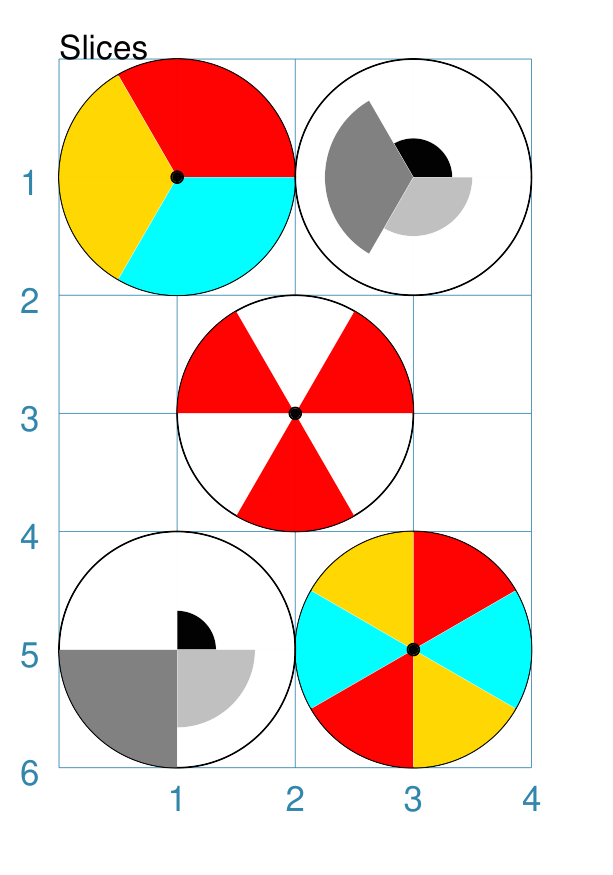
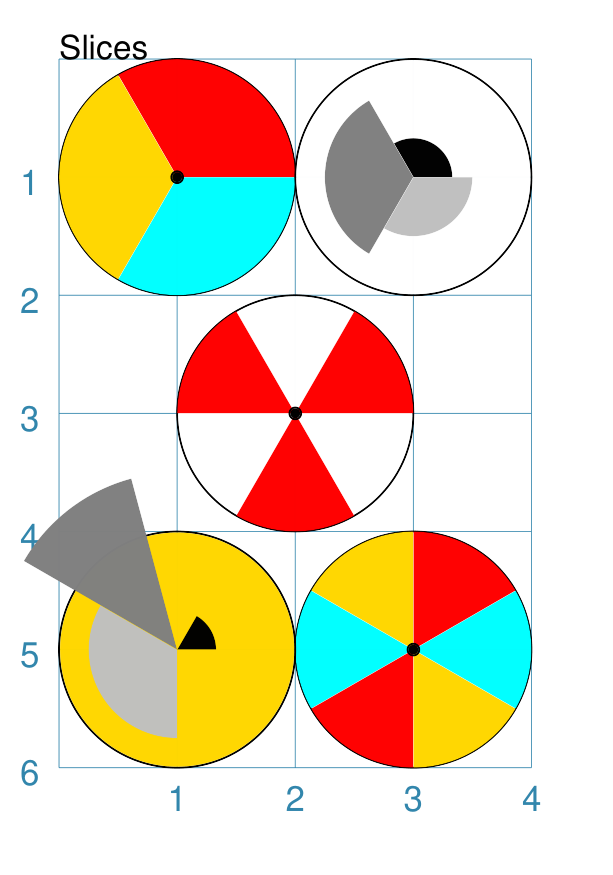
Updated slices property for Circle to allow angles.

Changed region(s): [[0.031, 0.5246, 0.4959, 0.8949]]

diff --git a/protograf/shapes.py b/protograf/shapes.py
@@ -771,18 +771,36 @@ class CircleShape(BaseShape):
         # ---- validate slices fractions values
         for _frac in _slices_frac:
             _frac = _frac or 1
-            if not isinstance(_frac, (float, int)) or _frac > 1:
-                feedback("The slices_fractions must be a list of fractions.", True)
+            if not isinstance(_frac, (float, int)):
+                feedback("The slices_fractions must be a list of values.", True)
         if len(_slices_frac) != len(_slices):
             feedback(
                 "The number of slices_fractions must match number of colors.", True
             )
+        # ---- get slices_angles list from string
+        if isinstance(self.slices_angles, str):
+            _slices_ang = tools.split(self.slices_angles.strip())
+        else:  # degrees "size" of slice
+            _slices_ang = self.slices_angles or [360.0 / len(_slices) ] * len(_slices)
+        # ---- validate slices anfle values
+        for _frac in _slices_ang:
+            _frac = _frac or 0
+            if not isinstance(_frac, (float, int)):
+                feedback("The slices_angles must be a list of values.", True)
+        if len(_slices_ang) != len(_slices):
+            feedback(
+                "The number of slices_angles must match number of colors.", True
+            )
+        if sum(_slices_ang) > 360.0:
+            feedback(
+                "The sum of the slices_angles cannot exceed 360 (degrees).", True
+            )
         slices_colors = [colrs.get_color(slcolor) for slcolor in _slices]
         # ---- draw sectors
-        slice_angle = 360.0 / len(slices_colors)  # degrees "size" of slice
         angle = 0.0 + rotation
         for idx, _color in enumerate(slices_colors):
             radius_frac = radius * (_slices_frac[idx] or 1)
+            slice_angle = _slices_ang[idx]
             start = geoms.point_on_circle(centre, radius_frac, angle)
             if _color:
                 cnv.draw_sector(centre, start, slice_angle, fullSector=True)

diff --git a/protograf/base.py b/protograf/base.py
@@ -373,6 +373,7 @@ class BaseCanvas:
         # ---- rectangle / rhombus / hexagon / circle
         self.slices = self.defaults.get("slices", [])
         self.slices_fractions = self.defaults.get("slices_fractions", [])
+        self.slices_angles = self.defaults.get("slices_angles", [])
         self.slices_line = self.defaults.get("slices_line", 0)
         self.slices_line_mx = self.defaults.get("slices_line_mx", 0)
         self.slices_line_my = self.defaults.get("slices_line_my", 0)
@@ -844,9 +845,10 @@ class BaseShape:
         self.peaks_dict = {}
         self.borders = kwargs.get("borders", base.borders)
         self.rounded_radius = base.rounded_radius
-        # ---- rectangle / rhombus/ hexagon
+        # ---- rectangle / rhombus/ hexagon / circle
         self.slices = kwargs.get("slices", base.slices)
         self.slices_fractions = kwargs.get("slices_fractions", base.slices_fractions)
+        self.slices_angles = kwargs.get("slices_angles", base.slices_angles)
         self.slices_line = kwargs.get("slices_line", base.slices_line)
         self.slices_line_mx = kwargs.get("slices_line_mx", base.slices_line_mx)
         self.slices_line_my = kwargs.get("slices_line_my", base.slices_line_my)

diff --git a/protograf/proto.py b/protograf/proto.py
@@ -2751,6 +2751,15 @@ def Circle(row=None, col=None, **kwargs):
     - radii_labels_size (float): point size of label text
     - radii_labels_stroke (str): the named or hexadecimal color of the label text
     - radii_labels_stroke_width (float): thickness of the label text
+    - slices (list): colors (named or hexadecimal) used to draw pie slices; if
+      None is used then no slice will be drawn in that position
+    - slices_fractions (list): the "length" of the slices; if not specified,
+      then by default all slices will have their fraction set to 1 i.e. equal
+      to the radius of the circle - values smaller than 1 will be drawn inside
+      the circle and values larger than 1 will extend slices outside the circle
+    - slices_angles (list): the "width" of the slices; if not specified,
+      then by default all slices will be of equally-sized angles and occupy
+      the full circumference of the circle
     """
     kwargs = margins(**kwargs)
     circle = CircleShape(canvas=globals.canvas, **kwargs)

diff --git a/examples/core/customised_circle.py b/examples/core/customised_circle.py
@@ -154,9 +154,10 @@ Circle(cx=3, cy=5, radius=1,
 Circle(cx=3, cy=1, radius=1,
        slices=["black", "grey", "silver"],
        slices_fractions=[0.33, 0.75, 0.5])
-Circle(cx=1, cy=5, radius=1,
+Circle(cx=1, cy=5, radius=1, fill="gold",
        slices=["black", None, "grey", "silver"],
-       slices_fractions=[0.33, None, 1, 0.66])
+       slices_fractions=[0.33, None, 1.5, 0.75],
+       slices_angles=[60, 45, 45, 120])
 PageBreak()
 
 # ---- END

diff --git a/docs/source/customised_shapes.rst b/docs/source/customised_shapes.rst
@@ -2113,8 +2113,24 @@ Slices
 ------
 `^ <circleIndex_>`_
 
-The slices command enables the Circle to be filled with
-colored pie-shaped wedges.
+The slices command enables the Circle to be filled with colored pie-shaped
+wedges.
+
+These are relevant properties that can be set:
+
+- *slices* - this is a list of colors (named or hexadecimal); if ``None`` is
+  used then no slice will be drawn in that position
+- *slices_fractions* - this is the "length" of the slices; if not specified,
+  then by default all slices will have their fraction set to ``1`` meaning they
+  are equal to the radius of the circle |dash| values smaller than ``1`` will
+  result in them being drawn inside the circle and values larger than ``1``
+  will  result in them extending outside of the circle
+- *slices_angles* - this is the "width" of the slices; if not specified,
+  then by default all slices will be of equally-sized angles and will occupy
+  the full circumference of the circle
+
+Both the list of  *slice_fractions*  and  *slice_angles* must be of equal
+length to the  *slice* list.
 
 .. NOTE::
 
@@ -2142,34 +2158,38 @@ colored pie-shaped wedges.
         Circle(cx=3, cy=1, radius=1,
                slices=["black", "grey", "silver"],
                slices_fractions=[0.33, 0.75, 0.5])
-        Circle(cx=1, cy=5, radius=1,
+        Circle(cx=1, cy=5, radius=1, fill="gold",
                slices=["black", None, "grey", "silver"],
-               slices_fractions=[0.33, None, 1, 0.66])
+               slices_fractions=[0.33, None, 1.5, 0.75],
+               slices_angles=[60, 45, 45, 120])
 
       The top-left example shows the minimum required; the *slices* property is
       a list of colors (``[ ]`` with comma-separated color strings).
-
-      This causes **three** slices to be drawn |dash| starting from 0|deg| to the
-      east, and continuing anti-clockwise.
+      This causes **three** slices to be drawn |dash| starting from 0 |deg| to the
+      east, and continuing anti-clockwise.  Each slice is 120 |deg| in width.
 
       The middle example shows what happens when the *slices* property includes
-      the ``None`` value; in this case, no slice is drawn.
+      the ``None`` value; in this case, no slice is drawn between each ``red``
+      slice.  Each slice, including the "blanks" is 60 |deg| in width.
 
       The lower-right example shows what happens when the *rotation* property
       is also set; the slices start position is offset that many degrees
-      anti-clockwise from the  0|deg| position.
+      anti-clockwise from the 0 |deg| (east) position.
 
-      The top-right example show the use of the *slices_fractions* property;
-      this causes the "length" of the pie-slice to be shortened to that fraction
-      of the circle's radius.
+      The top-right example shows the use of the *slices_fractions* property;
+      because values are less than ``1`` this causes the "length" of the
+      pie-slice to be shortened to that fraction of the circle's radius.
 
       The bottom-left example show the use of the *slices_fractions* property
       and what happens when the *slices* property and the matching
       *slices_fractions* property both include the ``None`` value; in this
-      case, no slice is drawn.  A fraction of ```1`` means a normal size slice
-      will be drawn.
+      case, no slice is drawn.  A fraction of ``1.5`` means the slice will
+      extend beyond the circumference of the circle.  This example also
+      shows the use of *slices_angles* to control the width of the slices;
+      in this case they do not occupy the full circumference because the total
+      angles amount is less than 360 |deg|.
 
-      NOTE All slice lines are drawn with the  *slices_stroke* color,
+      **NOTE** All slice lines are drawn with the  *slices_stroke* color,
       which defaults to the slice color itself.
 
 ===== ======
